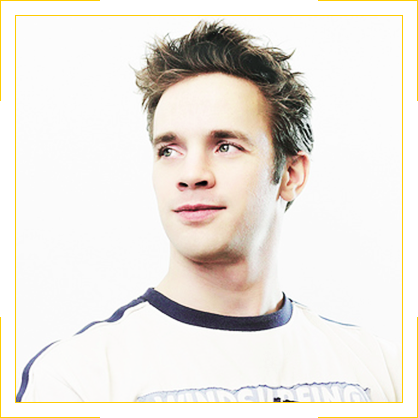
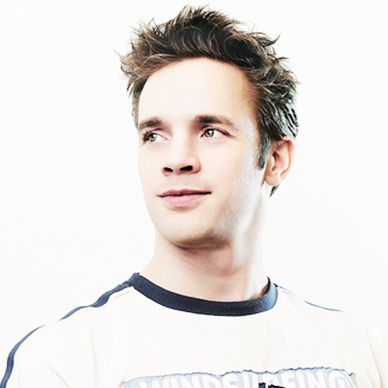
Make cool border.

diff --git a/our-team/sass/style.scss b/our-team/sass/style.scss
@@ -110,16 +110,30 @@ body {
 					.wrapper {
 						width: 50%;
 
-						.img-wrapper {
-							display: inline-block;
-							background-image: url('../img/img1.png');
-							background-repeat: no-repeat;
-							background-size: cover;
-							background-position: center;
-							width: 418px;
-							height: 418px;
-							margin-right: 97px;
-							margin-left: 42px;
+						.cool-border {
+							 height:418px;
+							 width:418px;
+							 background-image: linear-gradient(to right, $main_color 25%, transparent 25% , transparent 75%,  $main_color 75%, $main_color 100%) ,
+							                   linear-gradient(to right, $main_color 25%, transparent 25% , transparent 75%,  $main_color 75%, $main_color 100%),
+							                   linear-gradient(to bottom,  $main_color 25%, transparent 25% , transparent 75%,  $main_color 75%, $main_color 100%),
+							                   linear-gradient(to bottom,  $main_color 25%, transparent 25% , transparent 75%,  $main_color 75%, $main_color 100%);
+							 background-position: left top, left bottom, left top, right top;
+							 background-size: 418px 1px, 418px 1px, 1px 418px, 1px 418px;
+							 background-repeat:  repeat-x, repeat-x, repeat-y, repeat-y;
+							 display: flex;
+							 justify-content: center;
+							 align-items: center;
+							 margin-left: 42px;
+
+							.img {
+								background-image: url('../img/img1.png');
+								background-repeat: no-repeat;
+								background-size: cover;
+								background-position: center;
+								width: 388px;
+								height: 388px;
+								border: 1px solid $main_color;
+							}
 						}
 					}
 

diff --git a/our-team/css/style.css b/our-team/css/style.css
@@ -111,16 +111,27 @@ body .container .slider .slide .content .wrapper {
   width: 50%;
 }
 
-body .container .slider .slide .content .wrapper .img-wrapper {
-  display: inline-block;
+body .container .slider .slide .content .wrapper .cool-border {
+  height: 418px;
+  width: 418px;
+  background-image: linear-gradient(to right, #ffcc00 25%, transparent 25%, transparent 75%, #ffcc00 75%, #ffcc00 100%), linear-gradient(to right, #ffcc00 25%, transparent 25%, transparent 75%, #ffcc00 75%, #ffcc00 100%), linear-gradient(to bottom, #ffcc00 25%, transparent 25%, transparent 75%, #ffcc00 75%, #ffcc00 100%), linear-gradient(to bottom, #ffcc00 25%, transparent 25%, transparent 75%, #ffcc00 75%, #ffcc00 100%);
+  background-position: left top, left bottom, left top, right top;
+  background-size: 418px 1px, 418px 1px, 1px 418px, 1px 418px;
+  background-repeat: repeat-x, repeat-x, repeat-y, repeat-y;
+  display: flex;
+  justify-content: center;
+  align-items: center;
+  margin-left: 42px;
+}
+
+body .container .slider .slide .content .wrapper .cool-border .img {
   background-image: url("../img/img1.png");
   background-repeat: no-repeat;
   background-size: cover;
   background-position: center;
-  width: 418px;
-  height: 418px;
-  margin-right: 97px;
-  margin-left: 42px;
+  width: 388px;
+  height: 388px;
+  border: 1px solid #ffcc00;
 }
 
 body .container .slider .slide .content .text-wrapper {

diff --git a/our-team/index.html b/our-team/index.html
@@ -22,7 +22,9 @@
 			<div class="slide">
 				<div class="content">
 					<div class="wrapper">
-						<div class="img-wrapper"></div>
+						<div class="cool-border">
+							<div class="img"></div>
+						</div>
 					</div>
 					<div class="text-wrapper">
 						<div class="fullname">Sahariar Kabir</div>
